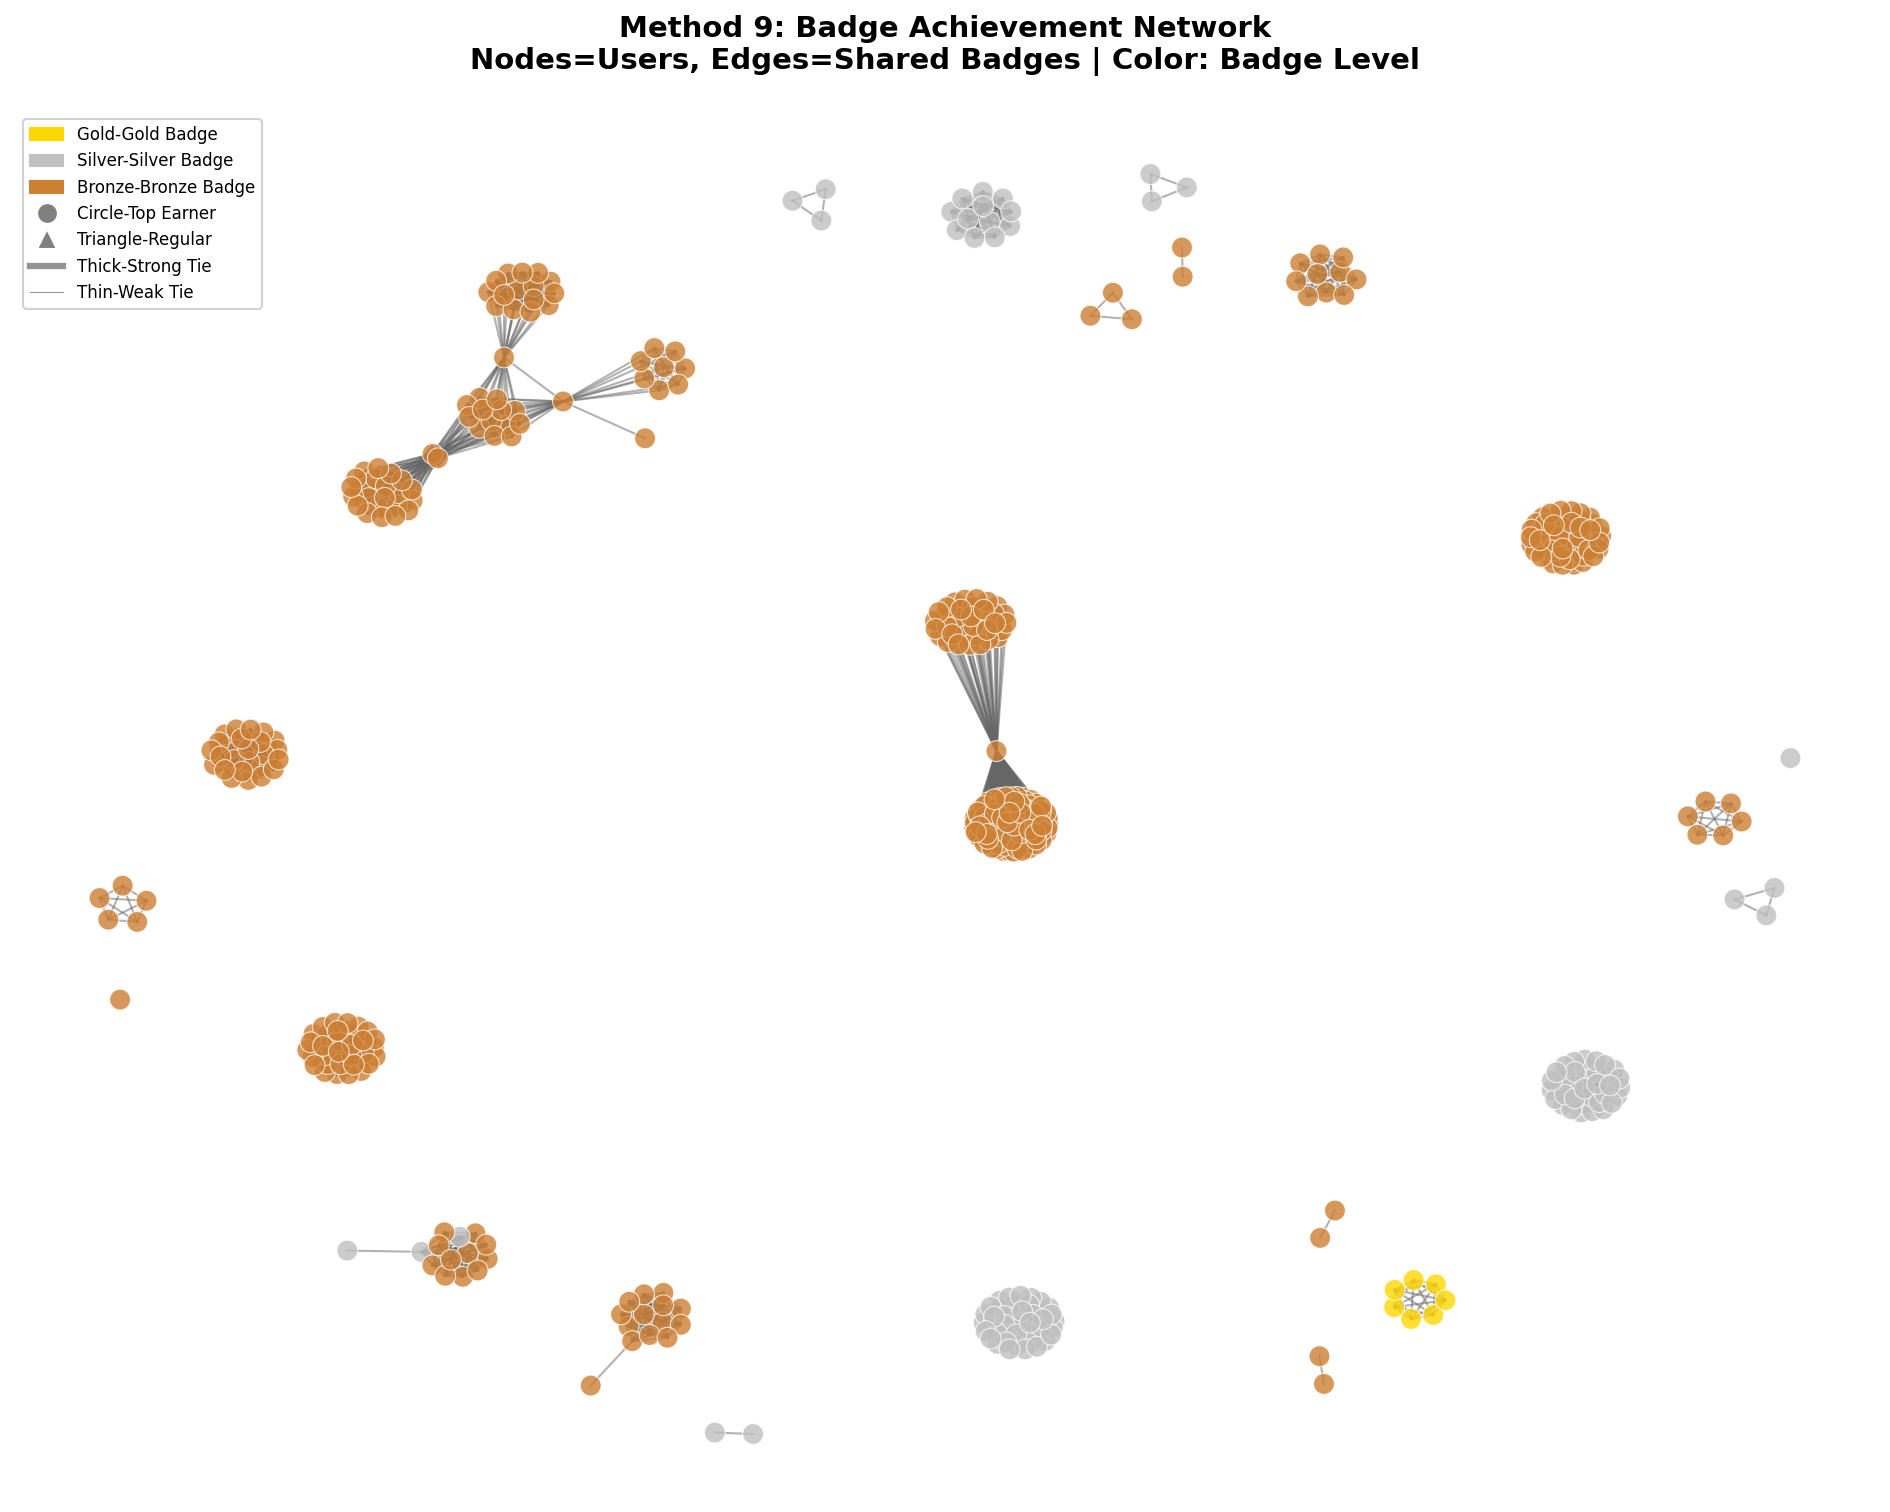
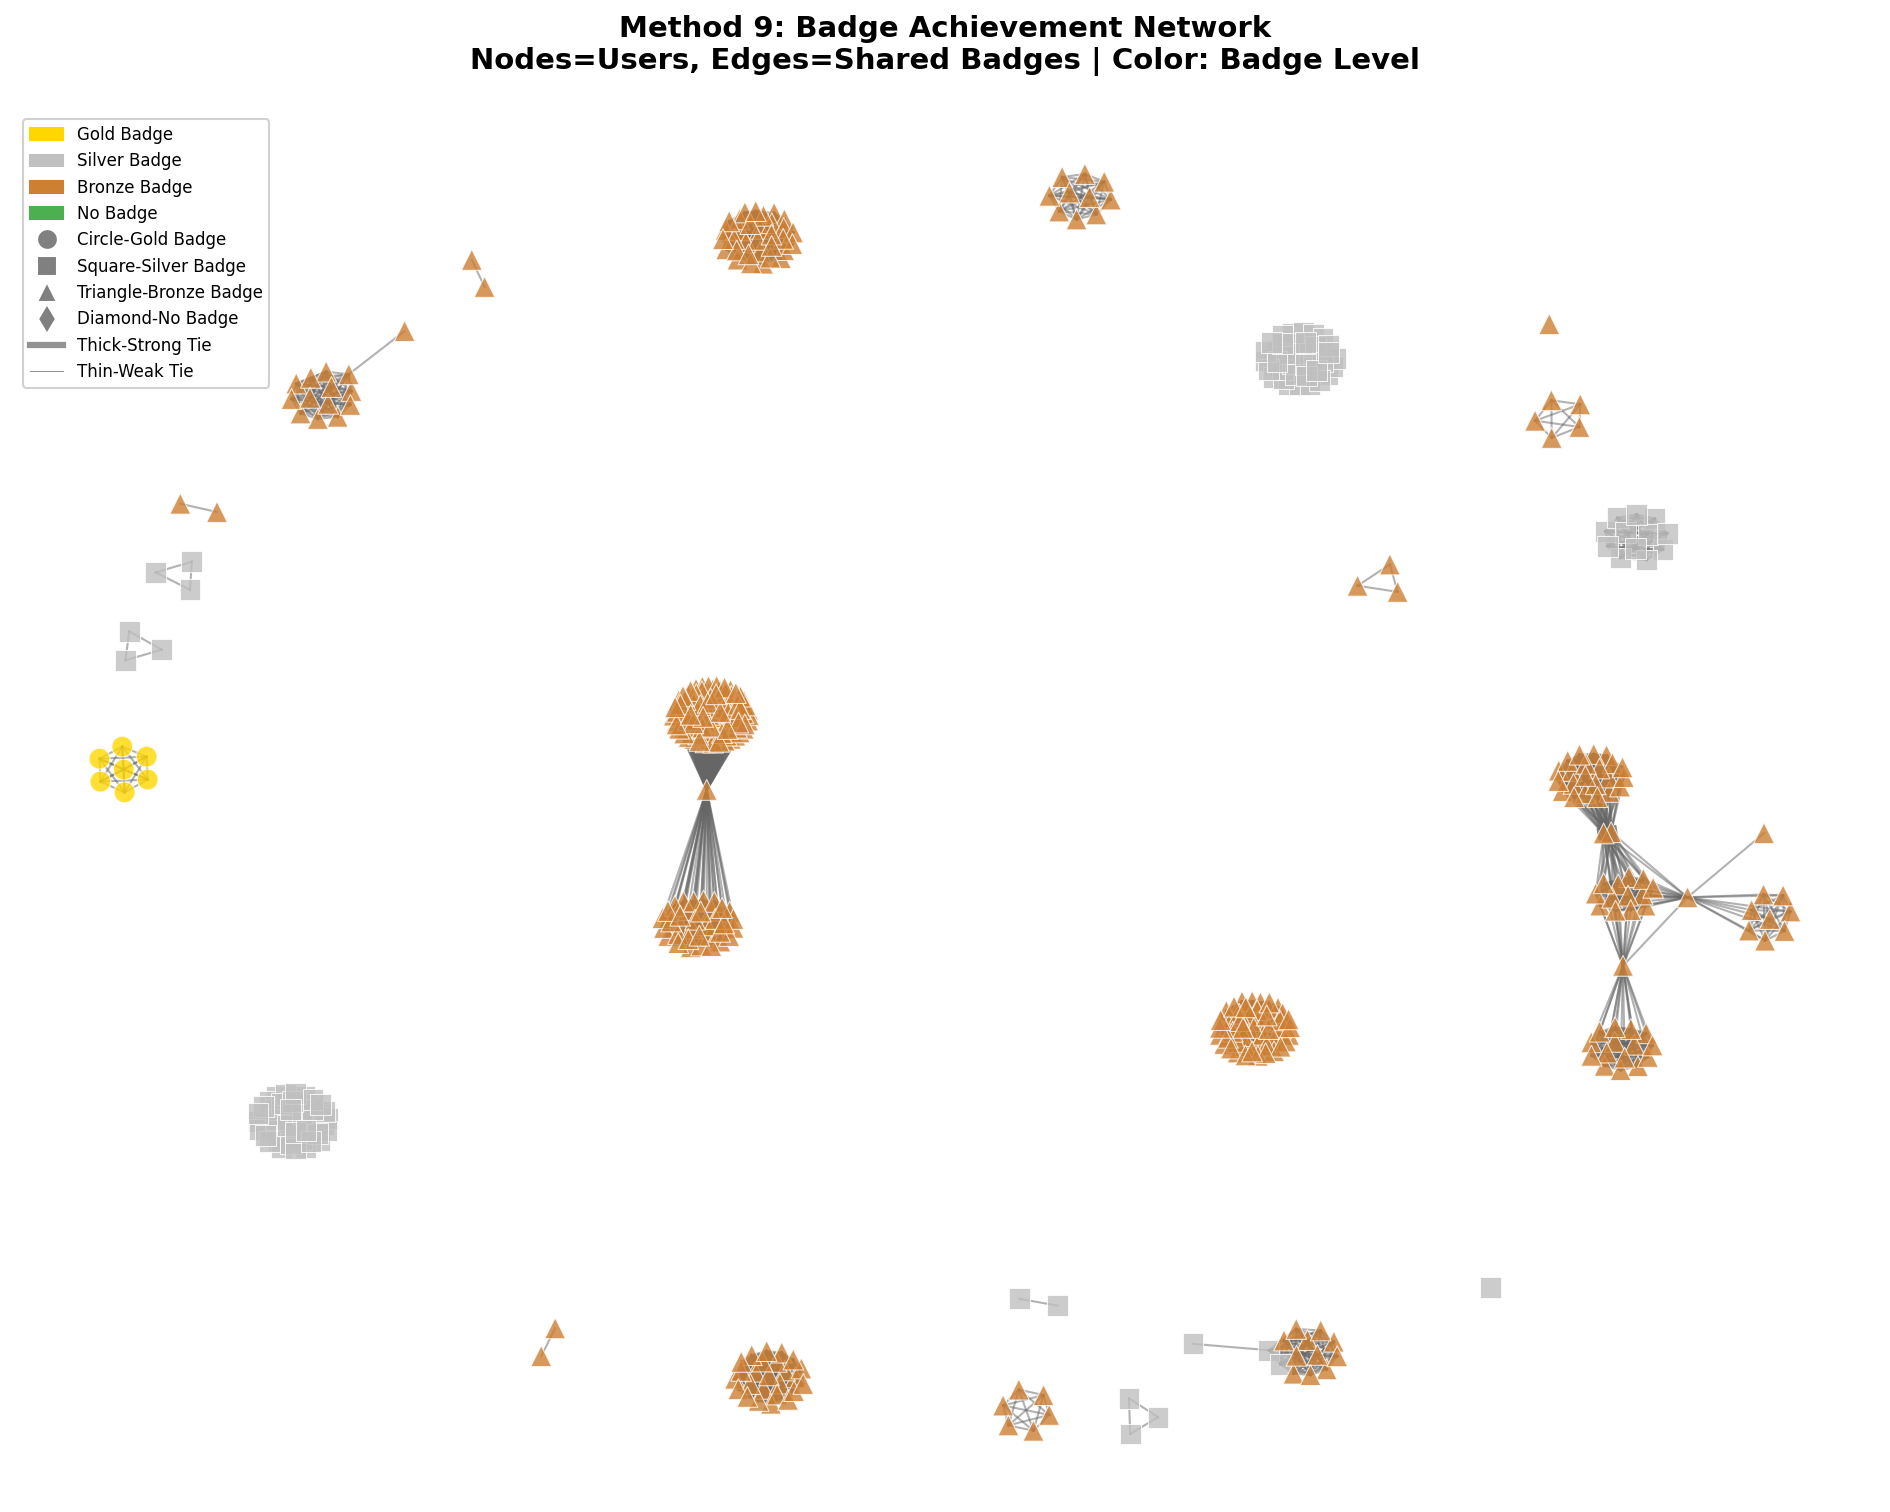
fix: 圖 9 原始檔

diff --git a/src/sna_runner.py b/src/sna_runner.py
@@ -388,13 +388,16 @@ class SNARunner:
             },
             "analysis_9": {
                 "colors": {
-                    "Gold-Gold Badge": "#FFD700",
-                    "Silver-Silver Badge": "#C0C0C0",
-                    "Bronze-Bronze Badge": "#CD7F32",
+                    "Gold Badge": "#FFD700",
+                    "Silver Badge": "#C0C0C0",
+                    "Bronze Badge": "#CD7F32",
+                    "No Badge": "#4CAF50",
                 },
                 "shapes": {
-                    "Circle-Top Earner": "o",
-                    "Triangle-Regular": "^",
+                    "Circle-Gold Badge": "o",
+                    "Square-Silver Badge": "s",
+                    "Triangle-Bronze Badge": "^",
+                    "Diamond-No Badge": "d",
                 },
                 "edge_weights": {
                     "Thick-Strong Tie": 3.0,
@@ -595,6 +598,7 @@ class SNARunner:
                     result["graph"],
                     "Method 9: Badge Achievement Network\nNodes=Users, Edges=Shared Badges | Color: Badge Level",
                     color_by="badge_level",
+                    shape_by="badge_level",
                     filename="analysis_9_network_raw.png",
                     legend_info=LEGEND_INFO["analysis_9"],
                 )

diff --git a/src/visualization/plots.py b/src/visualization/plots.py
@@ -333,7 +333,7 @@ class SNAPlotter:
                 "1_Gold": "#FFD700",
                 "2_Silver": "#C0C0C0",
                 "3_Bronze": "#CD7F32",
-                "0_None": "#BDBDBD",
+                "0_None": "#4CAF50",
             }
             return [color_map.get(str(v), default_color) for v in values]
 
@@ -475,6 +475,17 @@ class SNAPlotter:
             )
             result["o"] = [i for i, v in enumerate(has_code) if v == 1 or v == "yes"]
             result["s"] = [i for i, v in enumerate(has_code) if v == 0 or v == "no"]
+
+        elif shape_by == "badge_level":
+            badge_levels = (
+                list(graph.vs["badge_level"])
+                if "badge_level" in graph.vs.attribute_names()
+                else []
+            )
+            result["o"] = [i for i, v in enumerate(badge_levels) if v == "1_Gold"]
+            result["s"] = [i for i, v in enumerate(badge_levels) if v == "2_Silver"]
+            result["^"] = [i for i, v in enumerate(badge_levels) if v == "3_Bronze"]
+            result["d"] = [i for i, v in enumerate(badge_levels) if v == "0_None"]
 
         return result
 
